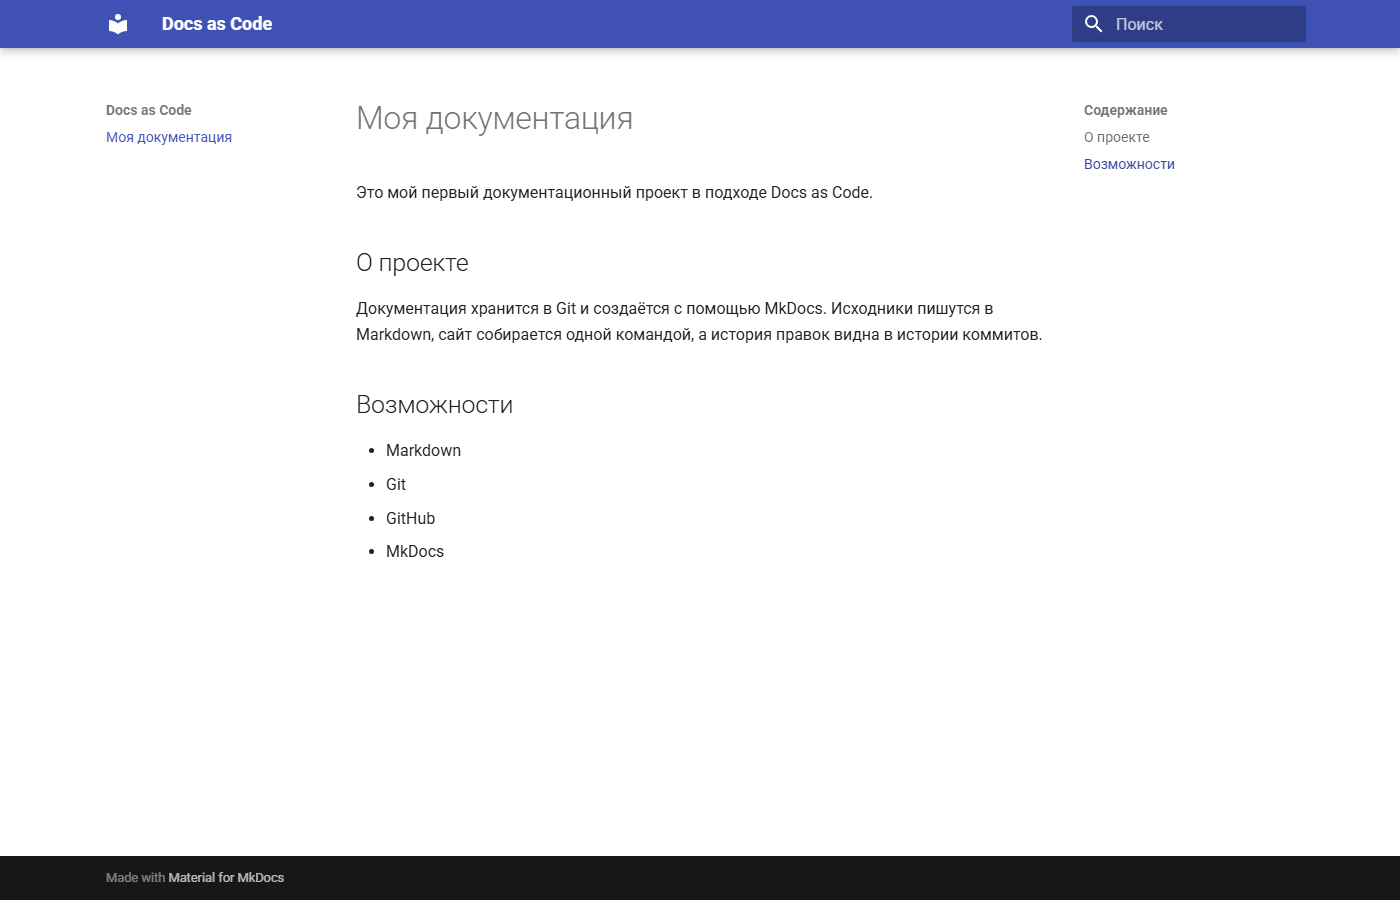
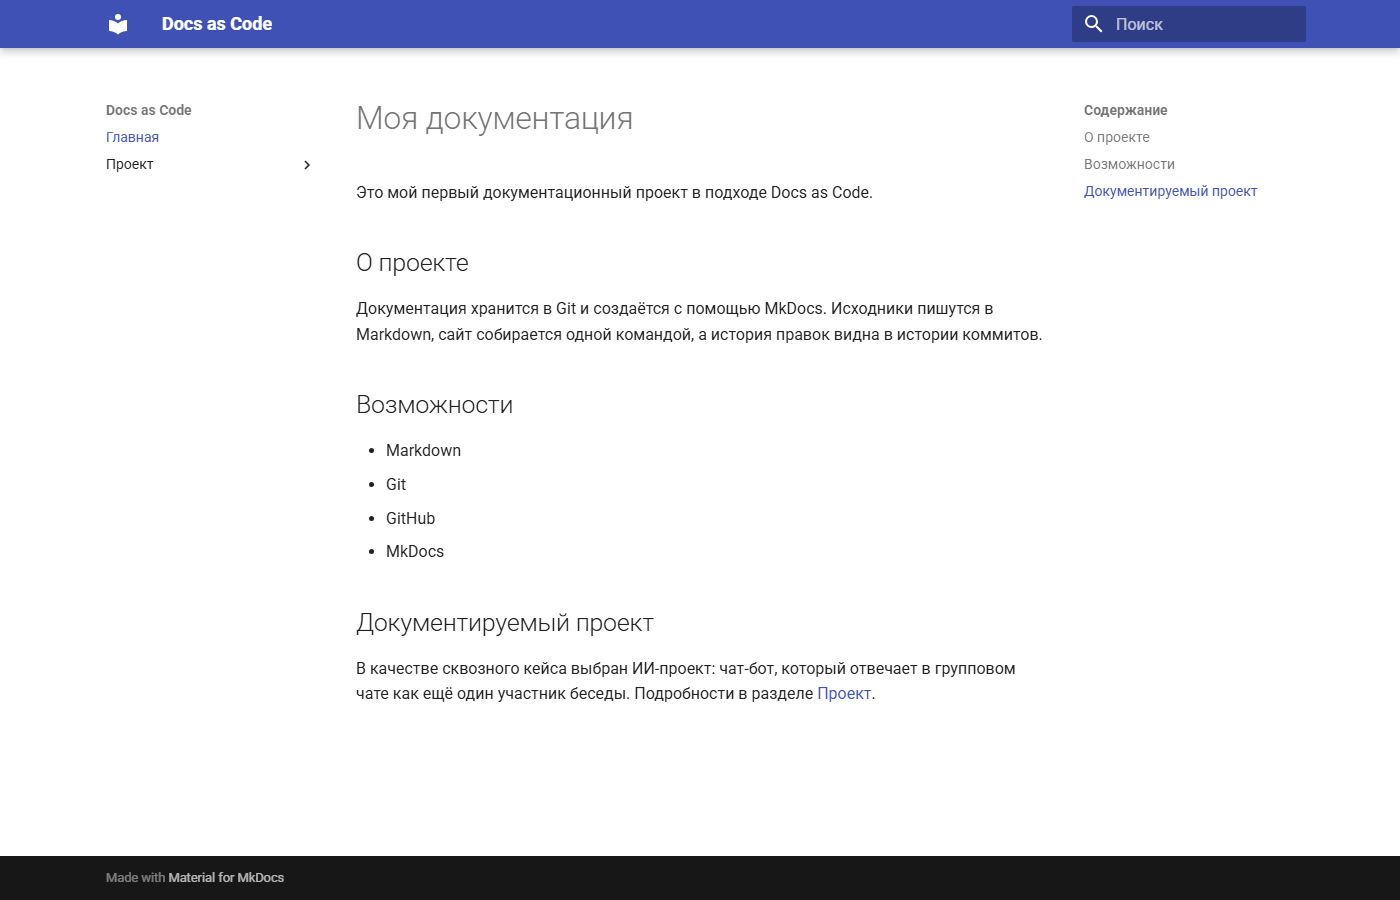
Add project requirements and diagrams

Changed region(s): [[0.2457, 0.6844, 0.7064, 0.7778], [0.7679, 0.1556, 0.8907, 0.2178], [0.0614, 0.1244, 0.1536, 0.1867]]

diff --git a/docs/project/requirements.md b/docs/project/requirements.md
@@ -1,0 +1,68 @@
+# Требования
+
+## User Stories
+
+### US-01. Ответ бота на сообщение
+
+Как участник чата,
+я хочу получать от бота короткий и уместный ответ на своё сообщение,
+чтобы беседа выглядела естественно.
+
+Критерии приёмки:
+
+- бот принимает текстовое сообщение из чата;
+- в ответ он отправляет текстовое сообщение;
+- если подходящих примеров найти не удалось, бот всё равно отвечает, используя запрос без примеров.
+
+### US-02. Просмотр выбранных примеров
+
+Как разработчик,
+я хочу видеть, какие примеры реранкер выбрал для запроса к LLM,
+чтобы понимать, почему бот ответил именно так.
+
+Критерии приёмки:
+
+- в режиме отладки выводится список выбранных примеров;
+- рядом с каждым примером показана оценка реранкера;
+- примеры отсортированы по убыванию оценки.
+
+### US-03. Оценка качества реранкера
+
+Как разработчик,
+я хочу запускать оценку реранкера на тестовой выборке,
+чтобы сравнить его с простым базовым решением (BM25).
+
+Критерии приёмки:
+
+- команда оценки считает метрики Recall@1, Recall@5, MRR и NDCG@10;
+- те же метрики считаются для бейзлайна BM25;
+- результаты можно сравнить в одной таблице.
+
+## Use Case
+
+### UC-01. Ответ на сообщение в чате
+
+**Актор:** участник чата.
+
+**Цель:** получить от бота ответ на своё сообщение.
+
+**Предусловие:** бот добавлен в чат, модели и индекс реплик загружены.
+
+**Основной сценарий:**
+
+1. Участник пишет сообщение в чат.
+2. Бот передаёт текст сообщения сервису.
+3. Сервис находит среди сохранённых реплик 50 кандидатов поиском BM25.
+4. Сервис передаёт пары «сообщение и кандидат» реранкеру (ML-модели).
+5. Реранкер возвращает оценку для каждой пары.
+6. Сервис выбирает 5 лучших примеров и убирает из них нежелательные.
+7. Сервис формирует запрос к LLM с этими примерами и отправляет его.
+8. LLM возвращает текст ответа.
+9. Бот отправляет ответ в чат, участник видит его.
+
+**Альтернативный сценарий:**
+
+- Если реранкер недоступен, сервис использует 5 первых кандидатов из BM25.
+- Если LLM не ответила за отведённое время, бот ничего не пишет в чат и записывает ошибку в журнал.
+
+**Результат:** ответ отправлен в чат, либо бот сознательно промолчал и сбой записан в журнал.

diff --git a/docs/project/overview.md b/docs/project/overview.md
@@ -1,0 +1,26 @@
+# Чат-бот с реранкером реплик
+
+Сервис отвечает на сообщения в групповом чате Telegram так, как мог бы ответить ещё один участник беседы, а не ассистент. Ответ пишет готовая языковая модель (LLM), а в её запрос добавляются несколько реальных примеров вида «сообщение и ответ на него». Лучшие примеры выбирает обученная модель-реранкер: она оценивает, насколько каждая реплика подходит как естественный ответ на входное сообщение.
+
+Основные пользователи:
+
+- участник чата;
+- разработчик (обучает и оценивает реранкер, настраивает бота).
+
+Основные функции:
+
+- ответ бота на сообщение в чате;
+- подбор примеров для запроса к LLM с помощью реранкера;
+- оценка качества реранкера на тестовых данных.
+
+## Комплект документации
+
+Для проекта потребуются следующие документы и разделы:
+
+1. **Описание проекта.** Для новых участников команды и преподавателя: что за система и зачем она нужна.
+2. **Требования.** Для разработчиков и тестировщиков: User Stories, критерии приёмки и Use Case, по которым проверяется результат.
+3. **Архитектура системы.** Для разработчиков: из каких компонентов состоит система и как они взаимодействуют.
+4. **Документация ML-модели (реранкер).** Для ML-инженеров: данные обучения, метрики, ограничения и способ обучения модели.
+5. **Описание данных.** Для ML-инженеров: источник датасета, его лицензия и известные проблемы (шум, перекос по чатам, чувствительное содержание).
+6. **Руководство по запуску.** Для разработчиков: как настроить окружение, обучить модель и запустить предсказание.
+7. **Руководство пользователя.** Для участников чата: как общаться с ботом и чего от него ожидать.

diff --git a/docs/project/diagrams.md b/docs/project/diagrams.md
@@ -1,0 +1,53 @@
+# Диаграммы
+
+## Диаграмма последовательности
+
+Сценарий UC-01 «Ответ на сообщение в чате».
+
+```mermaid
+sequenceDiagram
+    actor User as Участник чата
+    participant Bot as Telegram-бот
+    participant Search as Поиск кандидатов (BM25)
+    participant Reranker as Реранкер (ML-модель)
+    participant LLM as LLM
+
+    User->>Bot: Написать сообщение
+    Bot->>Search: Найти кандидатов для текста
+    Search-->>Bot: 50 кандидатов
+    Bot->>Reranker: Оценить пары (сообщение, кандидат)
+    Reranker-->>Bot: Оценки пар
+    Bot->>Bot: Выбрать 5 лучших примеров
+    Bot->>LLM: Запрос с примерами
+    LLM-->>Bot: Текст ответа
+    Bot-->>User: Отправить ответ в чат
+```
+
+## Диаграмма классов
+
+```mermaid
+classDiagram
+    class ChatMessage {
+        +int id
+        +string text
+        +string chat
+    }
+    class ReplyCandidate {
+        +string text
+        +float bm25_score
+    }
+    class RankedExample {
+        +string message
+        +string reply
+        +float reranker_score
+    }
+    class BotResponse {
+        +string text
+        +int examples_used
+    }
+
+    ChatMessage "1" --> "*" ReplyCandidate : поиск находит
+    ReplyCandidate "1" --> "1" RankedExample : оценивается реранкером
+    ChatMessage "1" --> "1" BotResponse : получает
+    BotResponse "1" --> "*" RankedExample : использует
+```

diff --git a/README.md b/README.md
@@ -1,8 +1,14 @@
 # Docs as Code
 
-Практическая работа по настройке среды Docs as Code.
+Практическая работа по настройке среды Docs as Code и документированию ИИ-проекта.
 
 Автор: Роман Томилов
+
+## Что внутри
+
+- Документация на [MkDocs](https://www.mkdocs.org/) с темой [Material](https://squidfunk.github.io/mkdocs-material/), исходники в папке `docs/`.
+- Проект, который документируется: чат-бот, подбирающий примеры реплик с помощью реранкера (см. `docs/project/overview.md`).
+- Скриншоты результата в папке `screenshots/`.
 
 ## Запуск
 
@@ -12,3 +18,5 @@ python -m venv .venv
 pip install -r requirements.txt
 mkdocs serve
 ```
+
+После запуска сайт доступен по адресу, который напечатает `mkdocs serve` (по умолчанию http://127.0.0.1:8000).

diff --git a/docs/index.md b/docs/index.md
@@ -12,3 +12,7 @@
 - Git
 - GitHub
 - MkDocs
+
+## Документируемый проект
+
+В качестве сквозного кейса выбран ИИ-проект: чат-бот, который отвечает в групповом чате как ещё один участник беседы. Подробности в разделе [Проект](project/overview.md).
